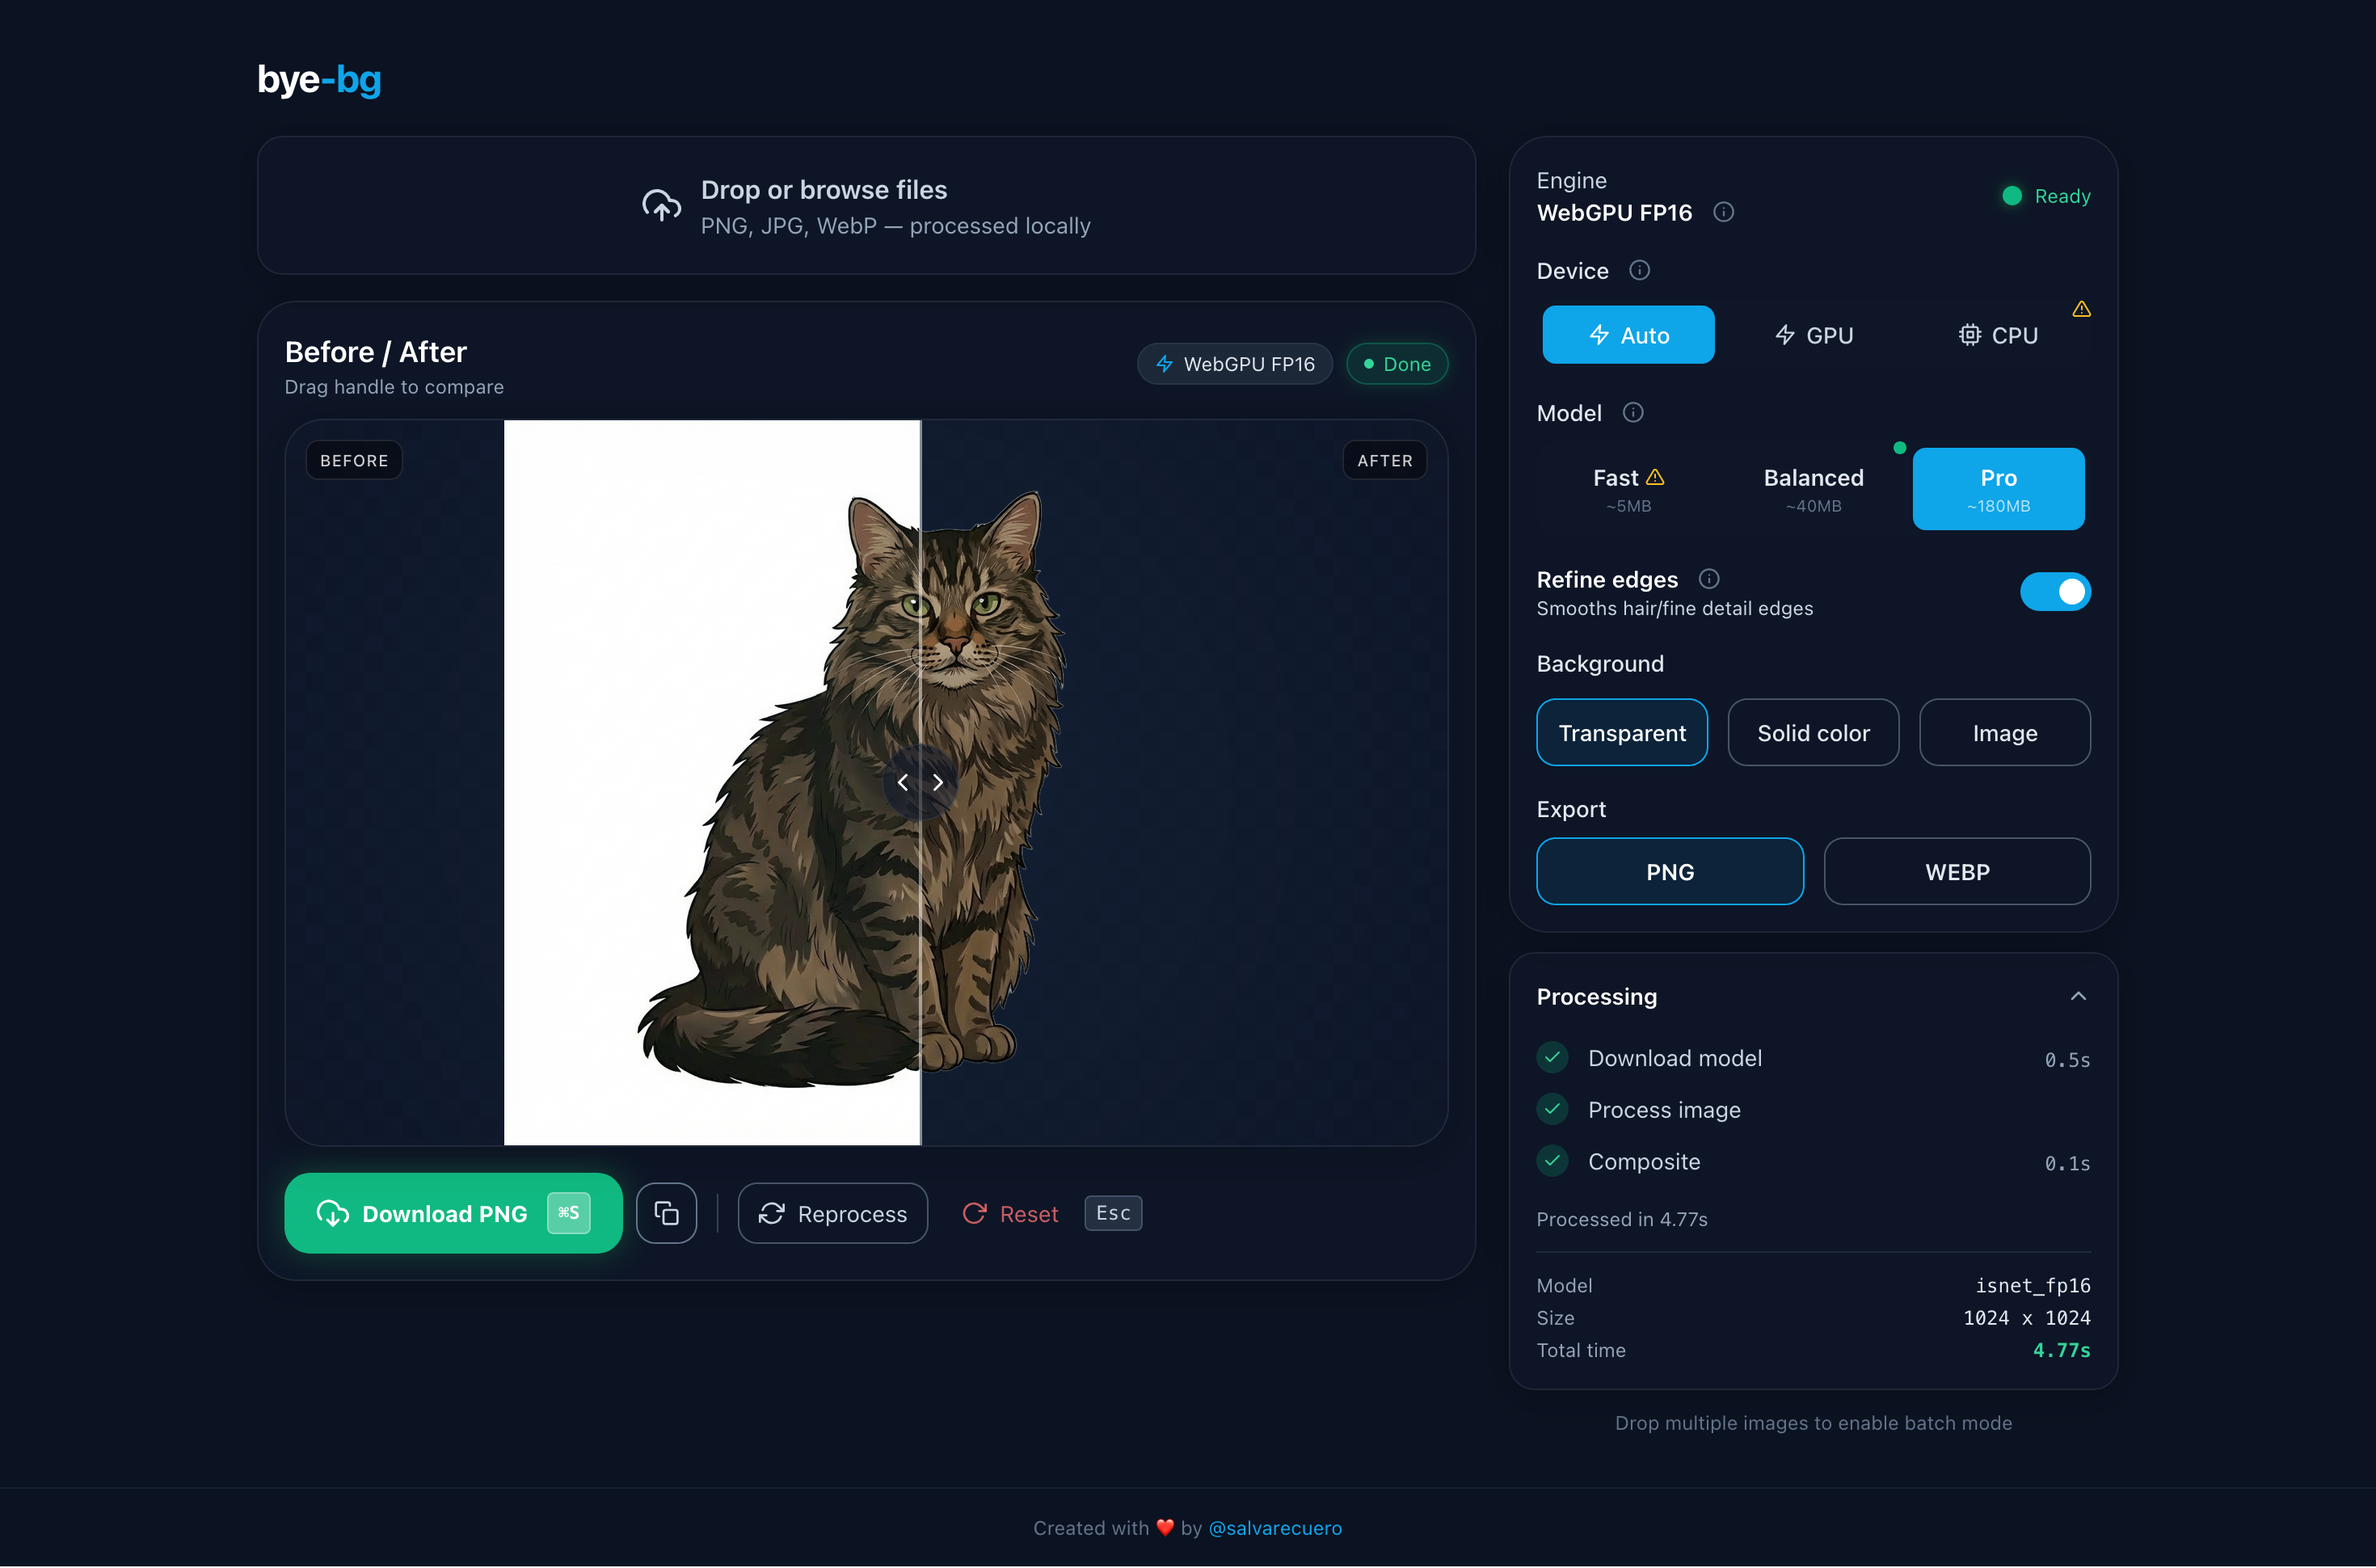
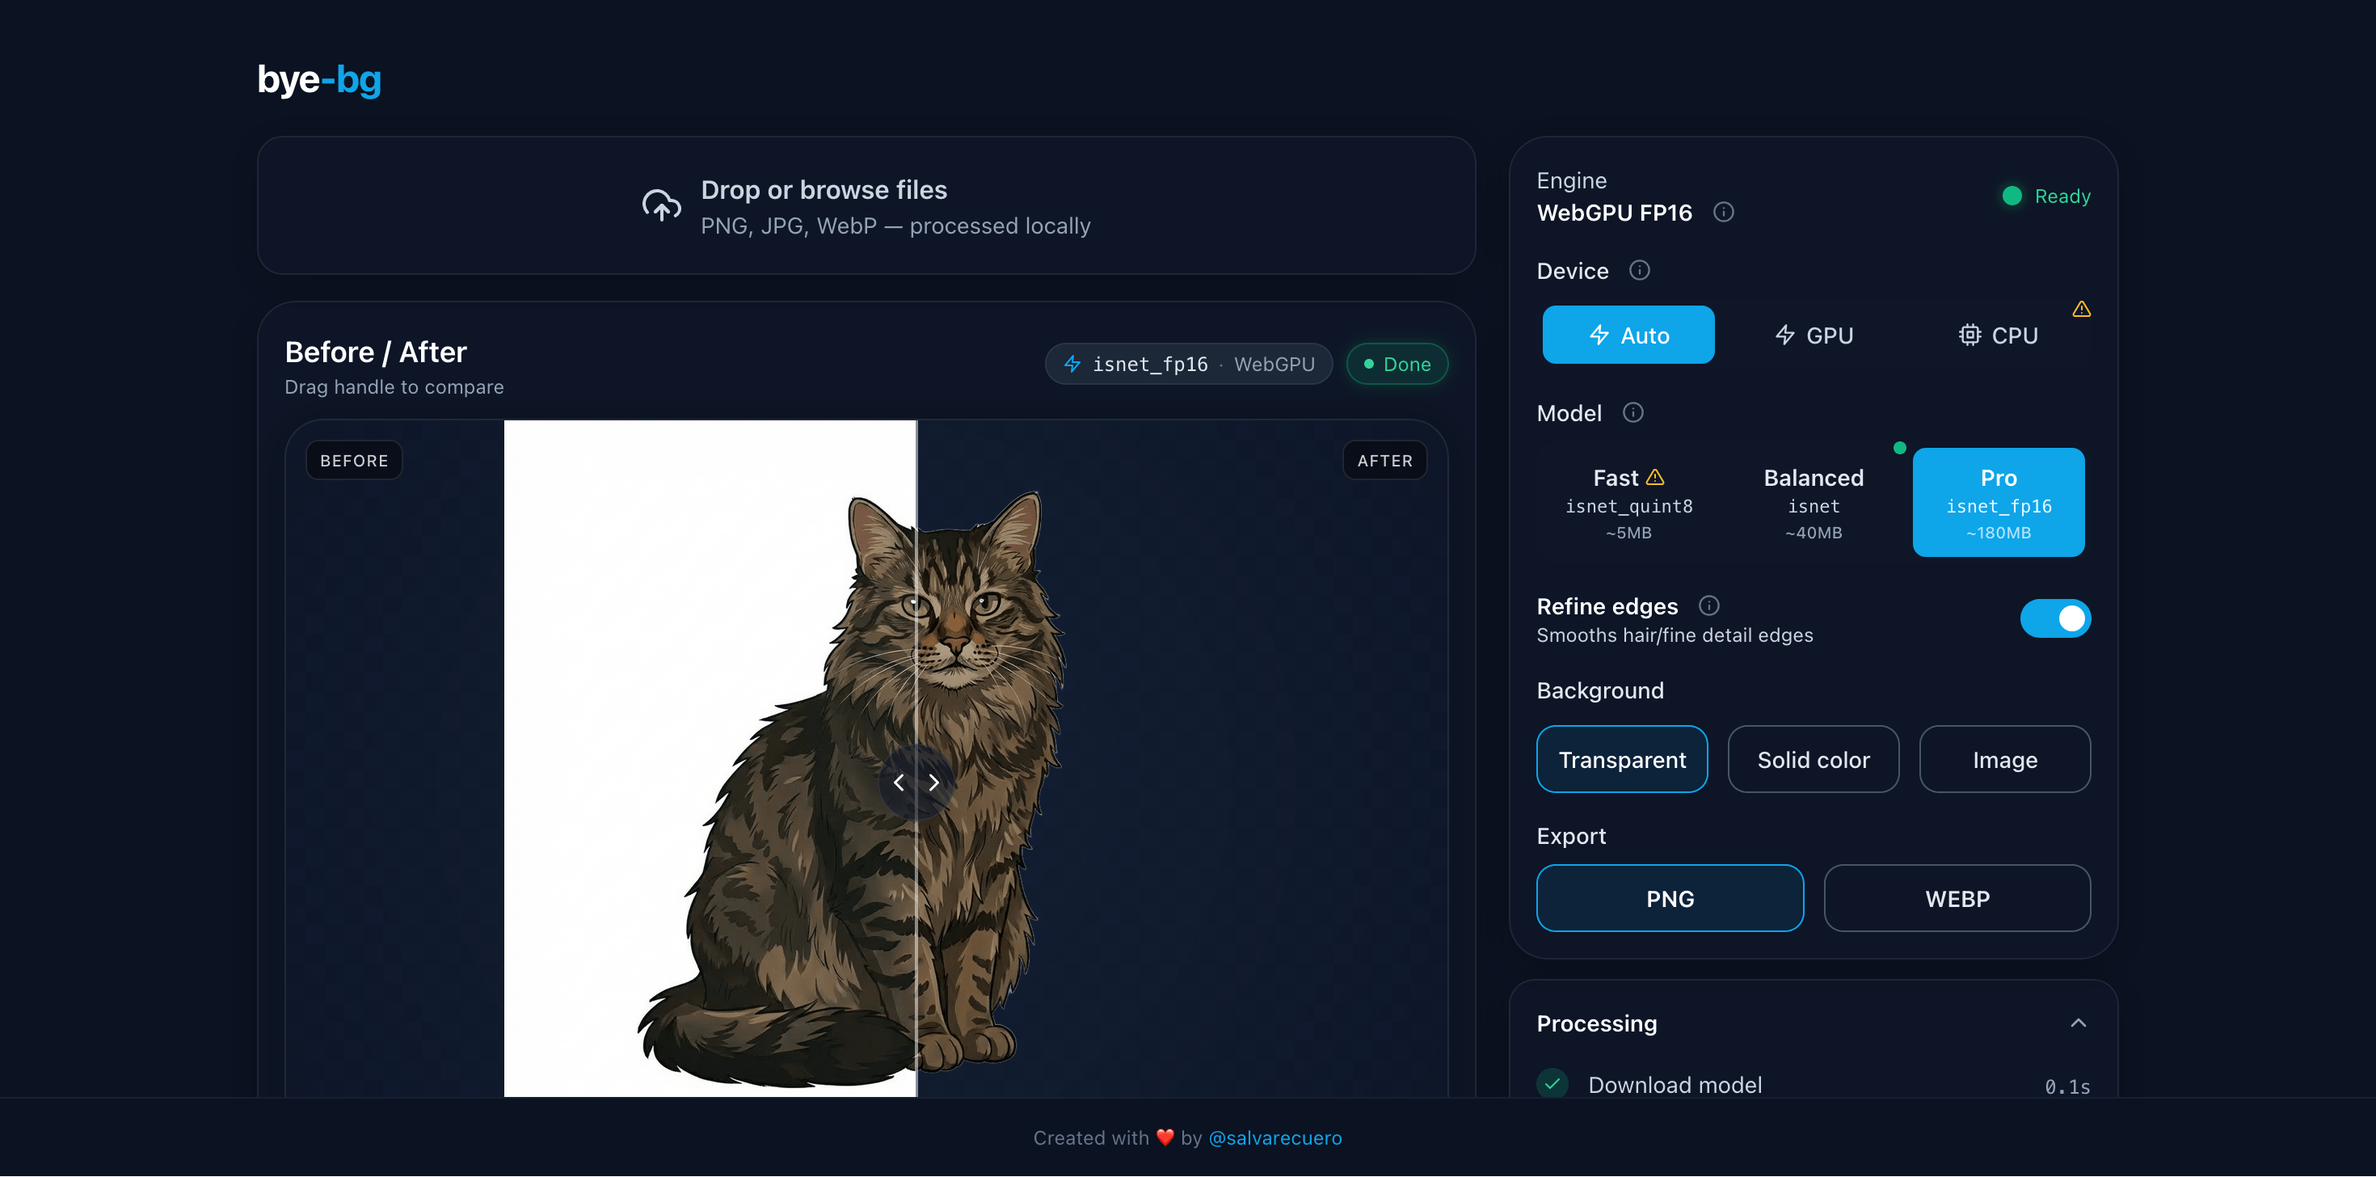
chore: update README and enhance App and SettingsPanel for clarity and user experience
- Revise browser support details in README for improved accuracy
- Modify App component to display model names alongside backend labels
- Update SettingsPanel to include model information for each quality tier, enhancing user understanding of options

diff --git a/src/lib/ui/SettingsPanel.tsx b/src/lib/ui/SettingsPanel.tsx
@@ -36,10 +36,10 @@ type Props = {
   onDevice: (v: DevicePreference) => void;
 };
 
-const qualities: { key: Quality; label: string; size: string; description: string }[] = [
-  { key: 'fast', label: 'Fast', size: '~5MB', description: 'Lightweight quantized model. Quick results, slightly lower edge quality.' },
-  { key: 'quality', label: 'Balanced', size: '~40MB', description: 'Balanced model for most images. Good quality with reasonable speed.' },
-  { key: 'pro', label: 'Pro', size: '~180MB', description: 'High-precision model. Best for complex images with fine details like hair.' }
+const qualities: { key: Quality; label: string; model: string; size: string; description: string }[] = [
+  { key: 'fast', label: 'Fast', model: 'isnet_quint8', size: '~5MB', description: 'Lightweight quantized model. Quick results, slightly lower edge quality.' },
+  { key: 'quality', label: 'Balanced', model: 'isnet', size: '~40MB', description: 'Balanced model for most images. Good quality with reasonable speed.' },
+  { key: 'pro', label: 'Pro', model: 'isnet_fp16', size: '~180MB', description: 'High-precision model. Best for complex images with fine details like hair.' }
 ];
 
 const backendDescriptions: Record<string, string> = {
@@ -183,8 +183,14 @@ export function SettingsPanel({
                   )}
                 </span>
                 <span className={clsx(
-                  'text-[10px]',
-                  quality === q.key ? 'text-white/70' : 'text-slate-500'
+                  'text-[11px] font-mono font-medium',
+                  quality === q.key ? 'text-white/90' : 'text-slate-300'
+                )}>
+                  {q.model}
+                </span>
+                <span className={clsx(
+                  'text-[10px] font-medium',
+                  quality === q.key ? 'text-white/70' : 'text-slate-400'
                 )}>
                   {q.size}
                 </span>

diff --git a/src/App.tsx b/src/App.tsx
@@ -587,14 +587,18 @@ export default function App() {
                       </div>
                     </div>
                     <div className="flex items-center gap-2 text-xs">
-                      {/* Backend chip with icon */}
+                      {/* Model + Backend chip with icon */}
                       <span className="flex items-center gap-1.5 rounded-full bg-slate-800/90 border border-slate-700/50 px-2.5 py-1 text-slate-200">
                         {backendLabel.includes("WebGPU") ? (
                           <FiZap className="h-3 w-3 text-accent" />
                         ) : (
                           <FiCpu className="h-3 w-3 text-slate-400" />
                         )}
-                        {backendLabel}
+                        <span className="font-mono">
+                          {quality === "pro" ? "isnet_fp16" : quality === "fast" ? "isnet_quint8" : "isnet"}
+                        </span>
+                        <span className="text-slate-500">·</span>
+                        <span className="text-slate-400">{backendLabel.includes("WebGPU") ? "WebGPU" : "WASM"}</span>
                       </span>
 
                       {/* Status chip with glow */}

diff --git a/README.md b/README.md
@@ -84,8 +84,10 @@ The app recommends a tier based on your device's capabilities.
 
 ## Browser Support
 
-- **Chrome 113+** / **Edge 113+** / **Firefox 120+** — Full WebGPU support
-- **Safari** / **Older browsers** — WASM fallback (slower but functional)
+- **Chrome 113+** / **Edge 113+** — Full WebGPU support
+- **Firefox 141+** — Full WebGPU support
+- **Safari 26+** — WebGPU support (macOS & iOS)
+- **Older browsers** — WASM fallback (slower but functional)
 
 For optimal performance, the dev server sets COOP/COEP headers to enable SharedArrayBuffer.
 
